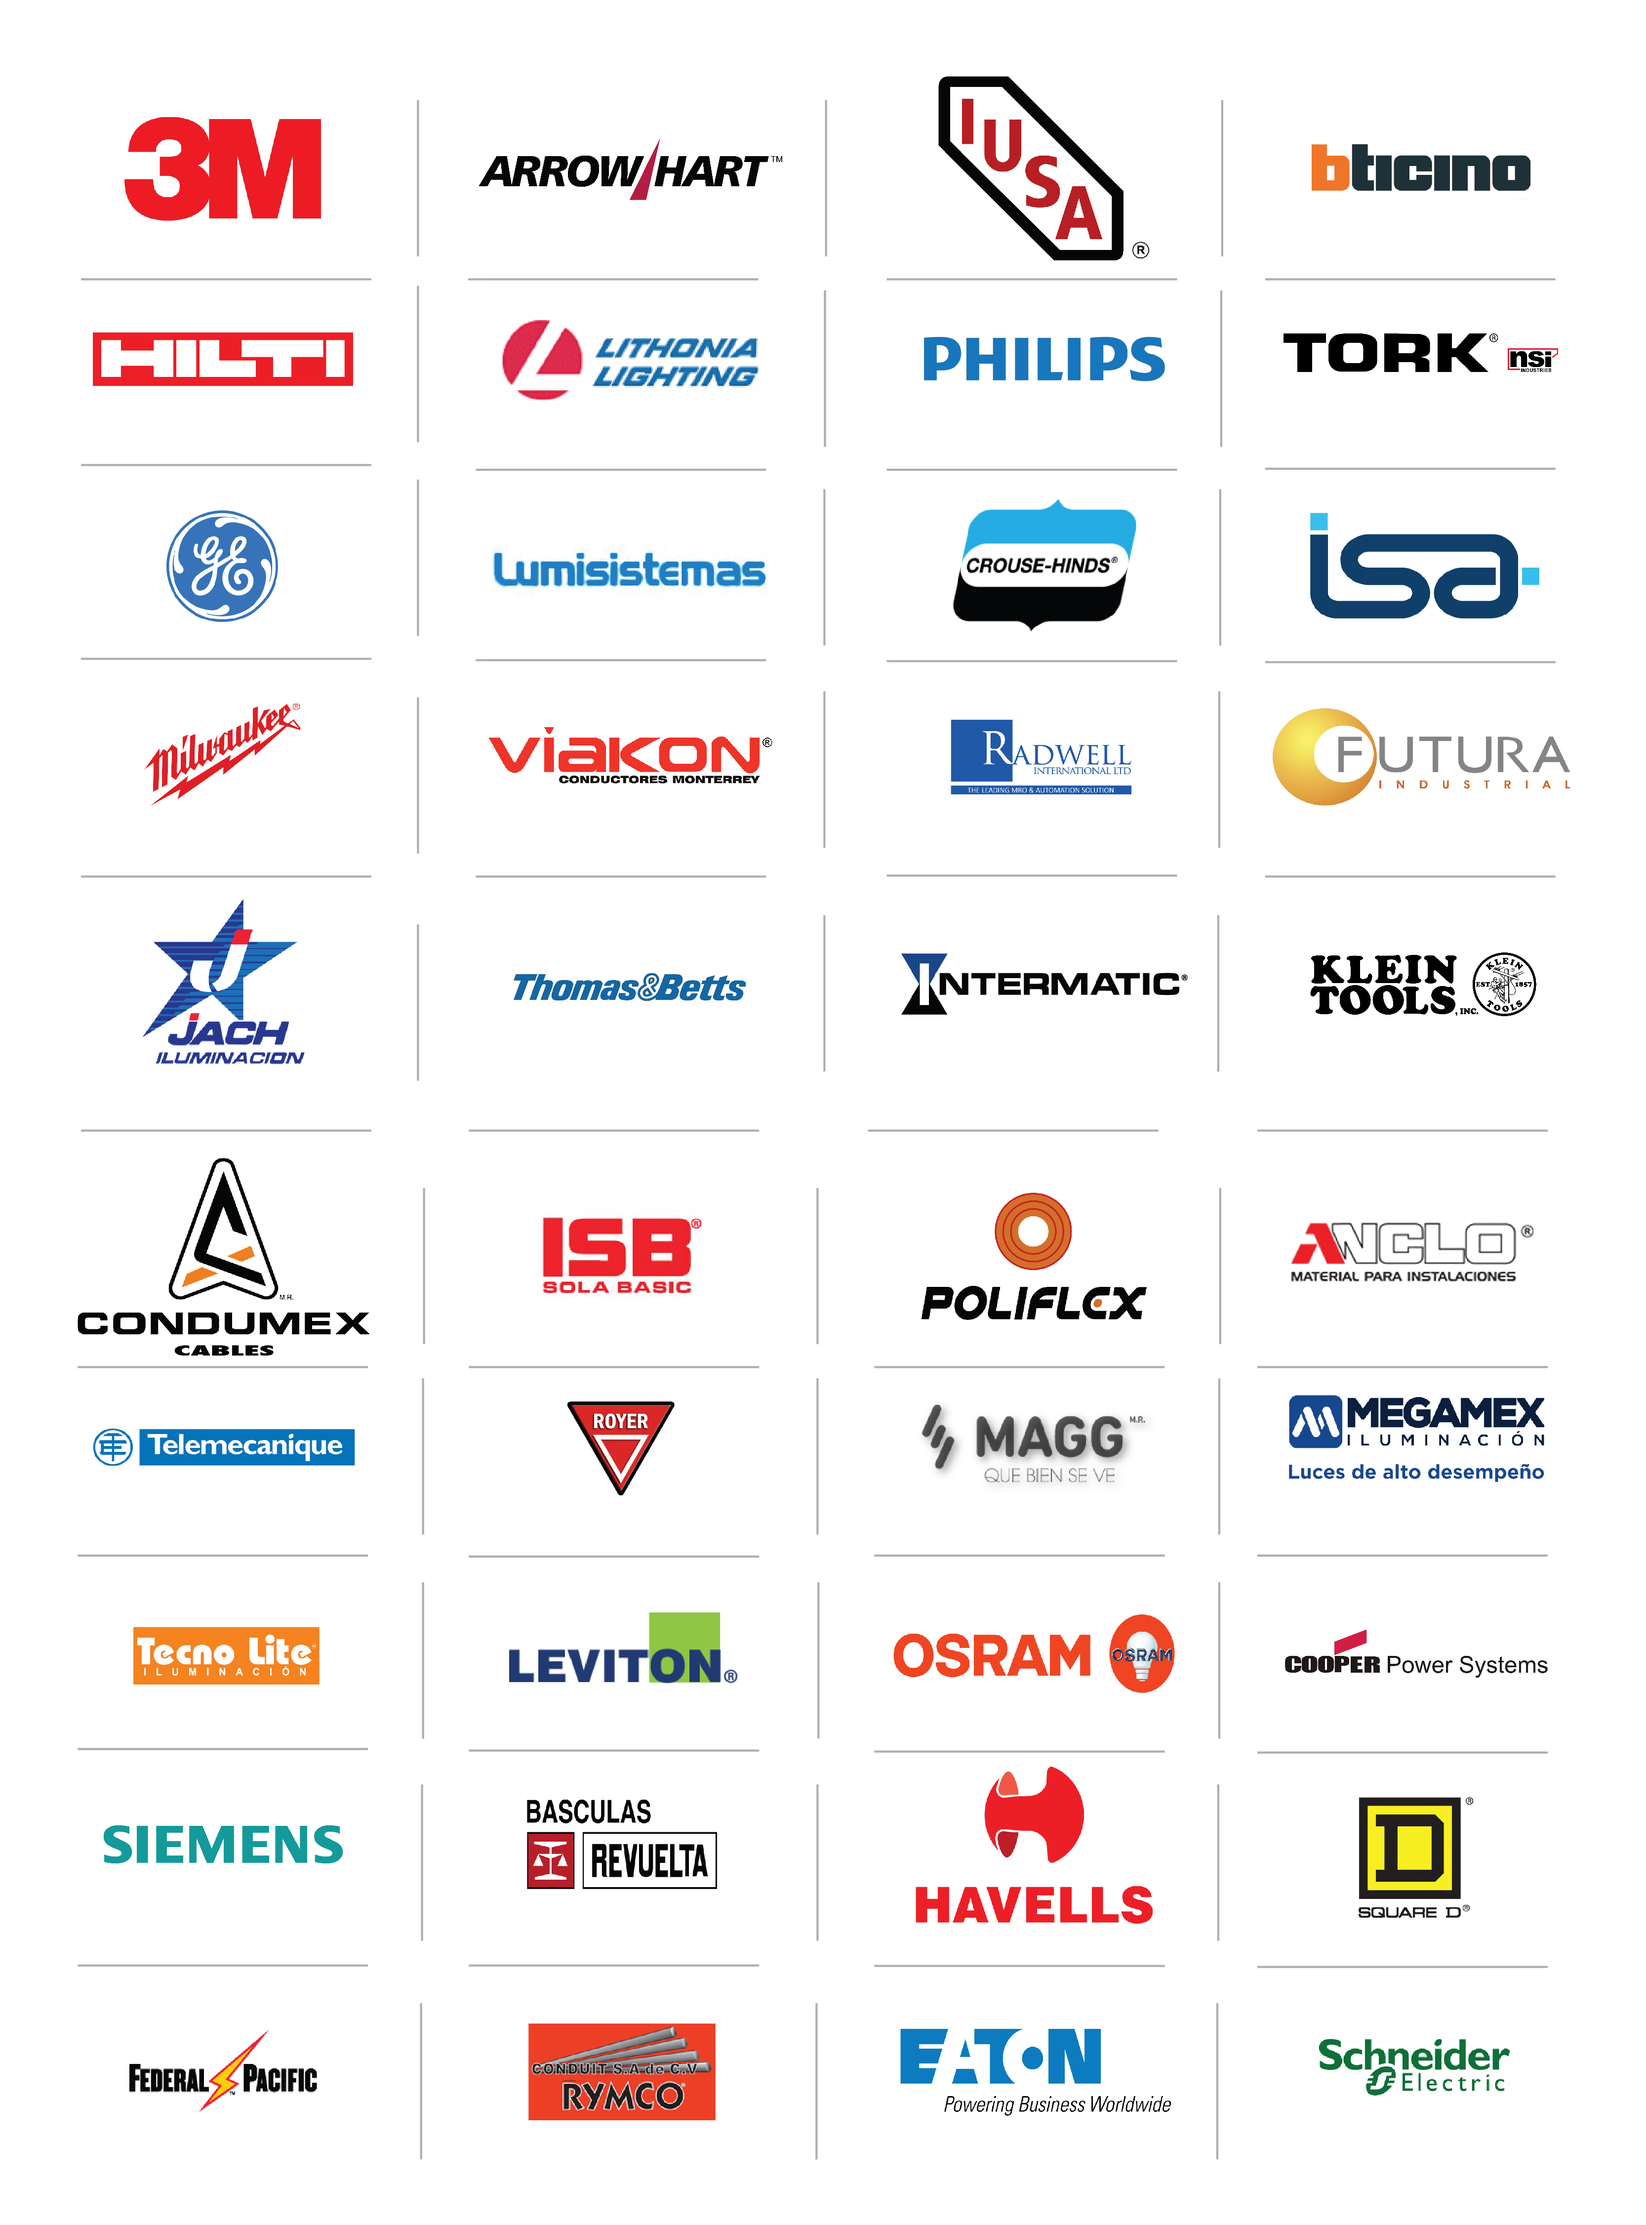
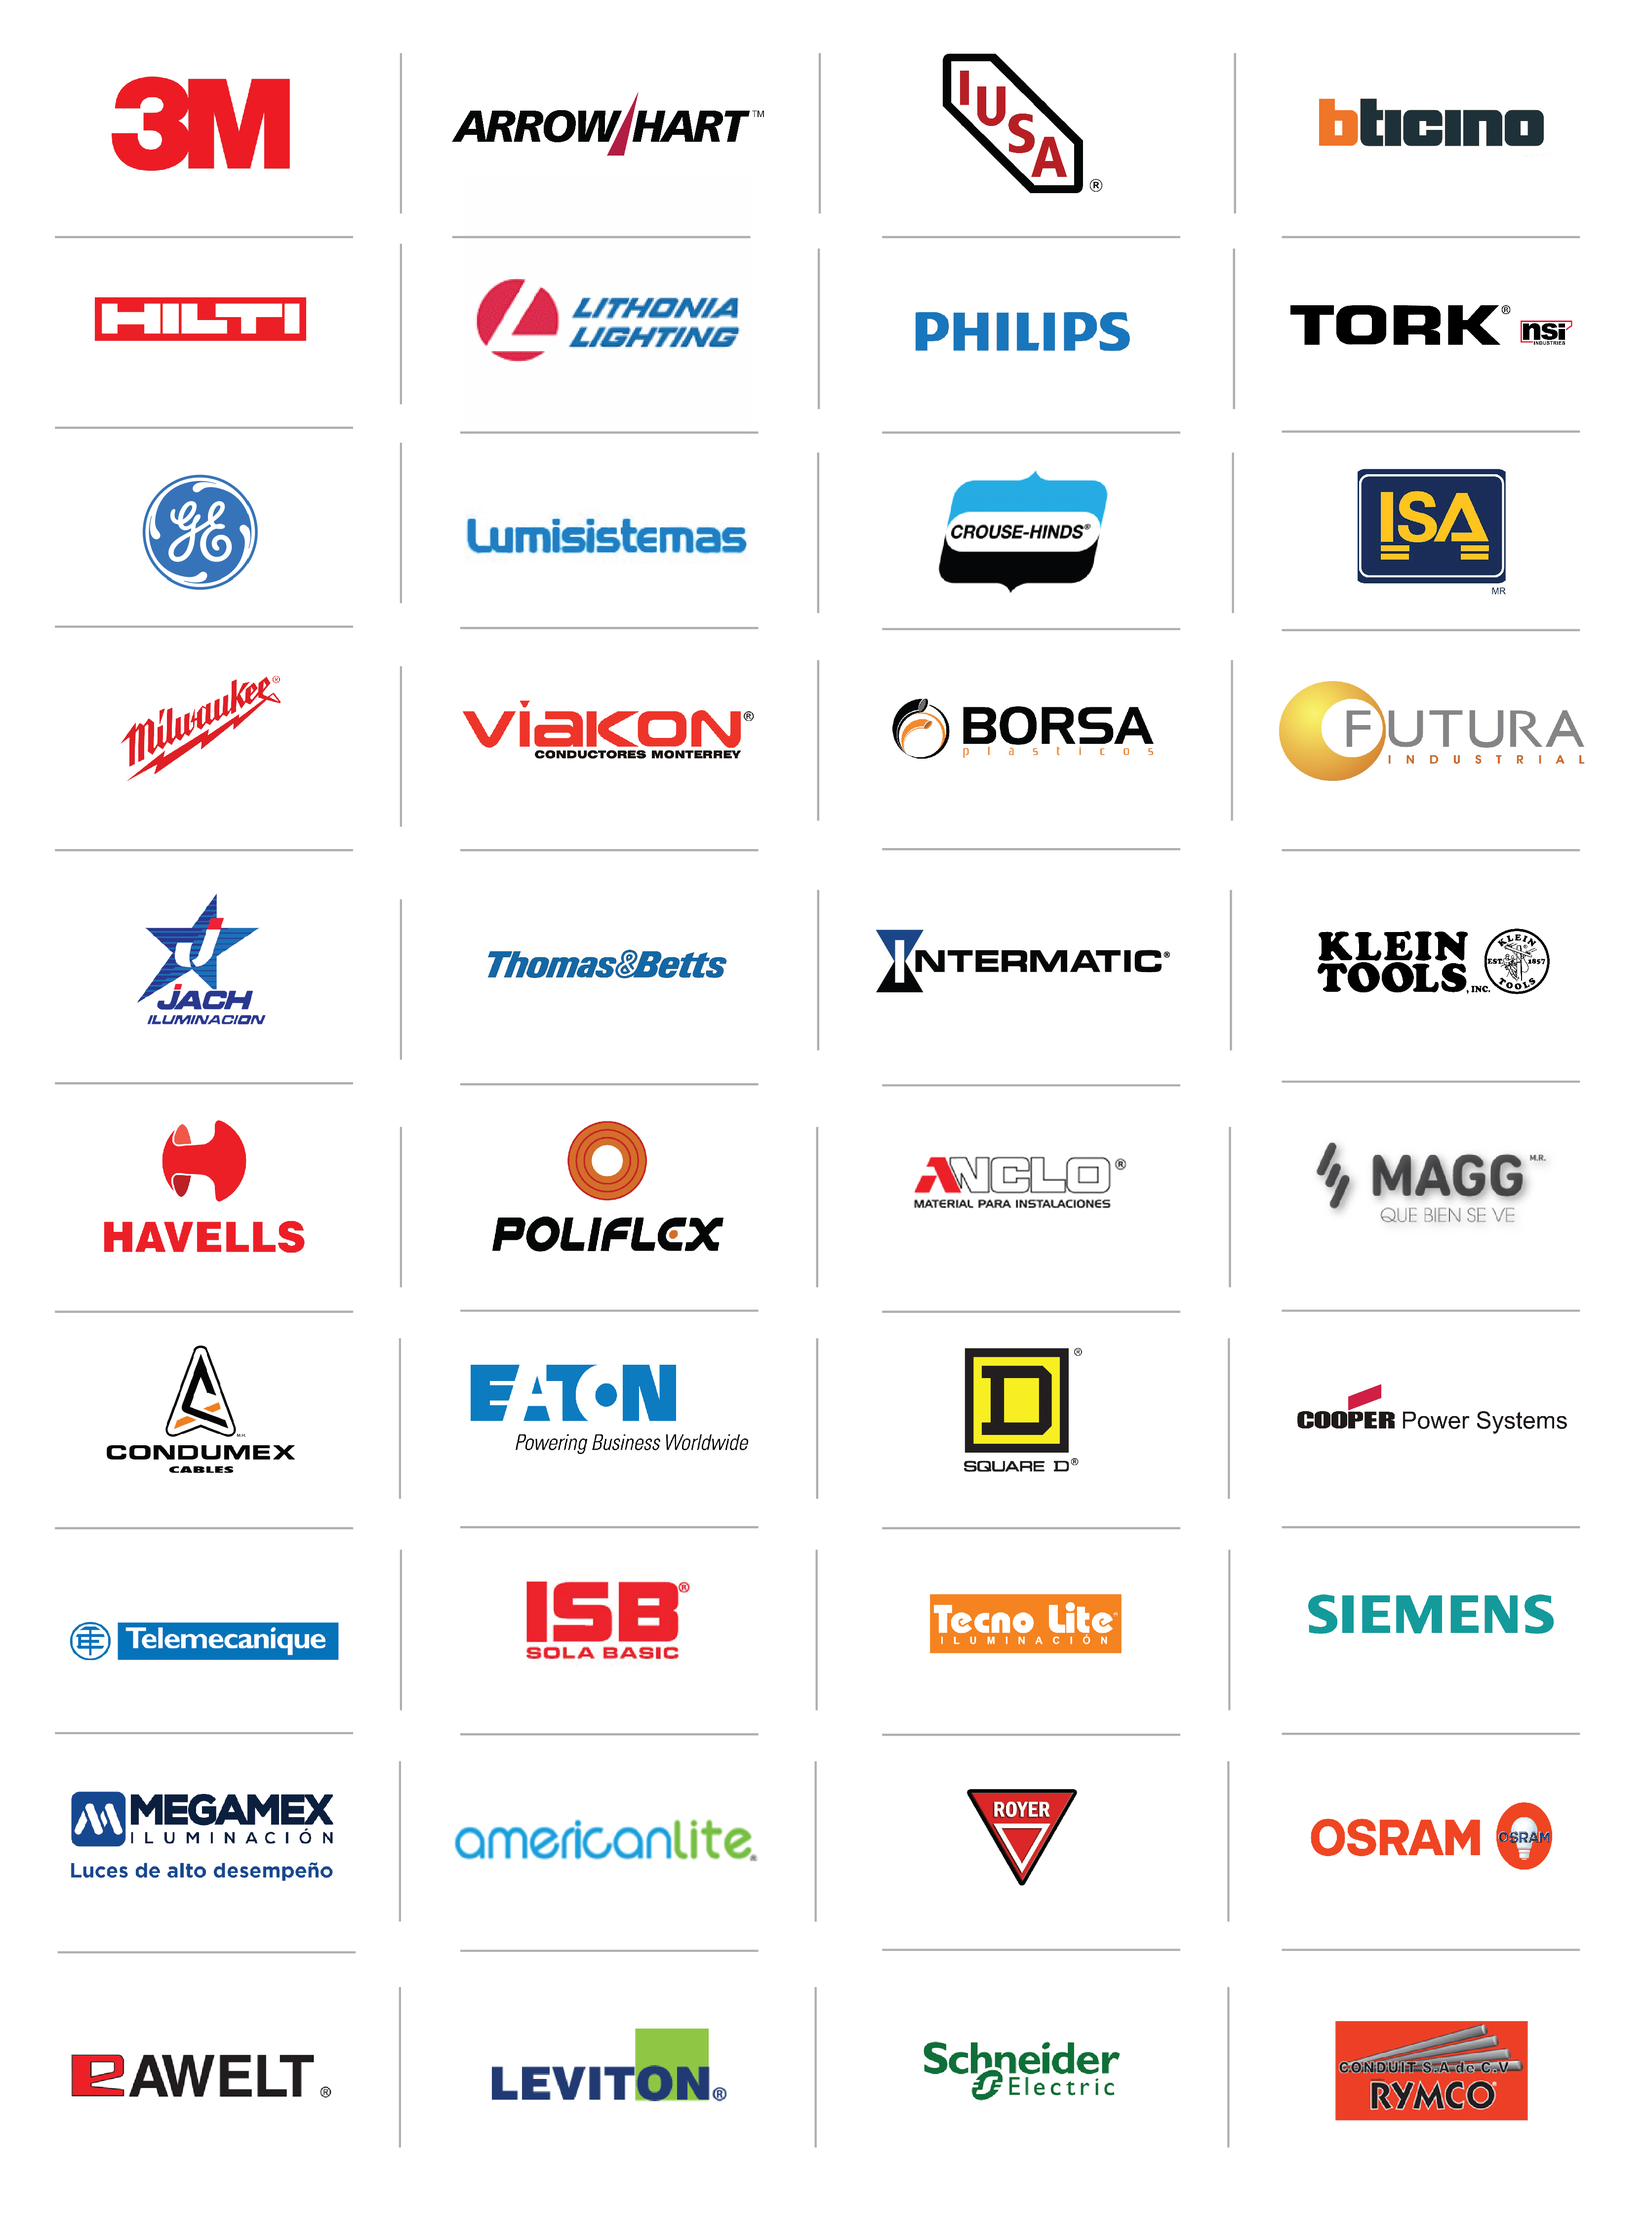
actualización proveedores

diff --git a/public/index.html b/public/index.html
@@ -105,7 +105,7 @@
         </div>
         <div class="marcas">
           <div class="row">
-            <div class="col-sm-12"><img src="img/marcas.jpg" class="img-responsive visible-lg"/><img src="img/Proveedores/proveedores-final-xs-01.jpg" class="img-responsive hidden-lg"/></div>
+            <div class="col-sm-12"><img src="img/Proveedores/proveedores-final-01.jpg" class="img-responsive visible-lg"/><img src="img/Proveedores/proveedores-final-xs-01.jpg" class="img-responsive hidden-lg"/></div>
           </div>
         </div>
       </article>
